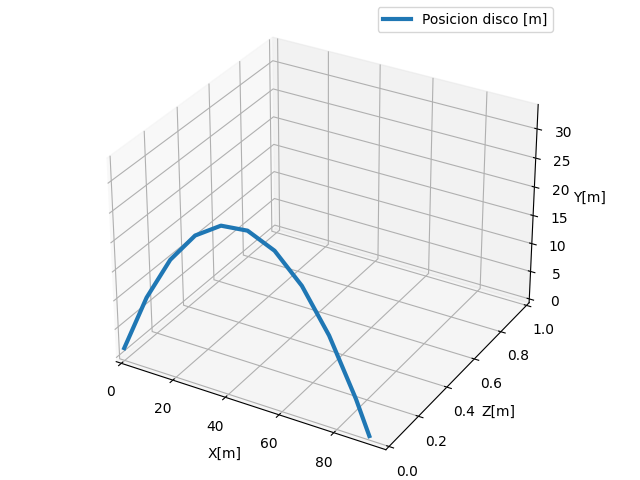
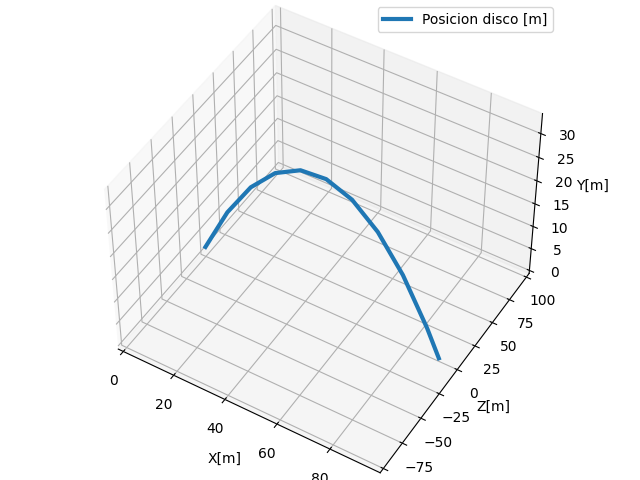
3d motion added, xz angle issue

diff --git a/tp2/graphic.py b/tp2/graphic.py
@@ -12,20 +12,25 @@ xdata, ydata, zdata = [], [], []
 
 
 class Animation:
-    def __init__(self, ang, vel, alt):
+    def __init__(self, ang_xy, ang_xz, vel, alt):
         # First set up the figure, the axis, and the plot element we want to animate
         self.fig = plt.figure()
         ax = Axes3D(self.fig)
         ax.set_xlabel('X[m]')
         ax.set_ylabel('Z[m]')
         ax.set_zlabel('Y[m]')
-        ax.set_xlim3d(config.X_START_GRAPHIC, physics.calculate_maximum_range(ang, vel, alt) + config.DRAWING_MARGIN)
-        ax.set_ylim3d(config.Z_START_GRAPHIC, 1)
-        ax.set_zlim3d(config.Y_START_GRAPHIC, physics.calculate_maximum_height(ang, vel, alt) + config.DRAWING_MARGIN)
+        ax.set_xlim3d(config.X_START_GRAPHIC, physics.calculate_x_displacement(ang_xy, ang_xz, vel,
+                                                                               physics.calculate_flight_time(ang_xy,
+                                                                                                             vel,
+                                                                                                             alt)) + config.DRAWING_MARGIN)
+        ax.set_ylim3d(-100, 100)
+        ax.set_zlim3d(config.Y_START_GRAPHIC,
+                      physics.calculate_maximum_height(ang_xy, vel, alt) + config.DRAWING_MARGIN)
         ax.set_title('Desplazamiento del disco [m]', fontdict={'fontsize': 12}, loc='center')
         self.line, = ax.plot([], [], [], lw=3, label='Posicion disco [m]')
 
-        self.ang = ang
+        self.ang_xy = ang_xy
+        self.ang_xz = ang_xz
         self.alt = alt
         self.vel = vel
 
@@ -33,10 +38,11 @@ class Animation:
         # noinspection PyTypeChecker
         anim = animation.FuncAnimation(self.fig, self.grapher, init_func=self.init,
                                        frames=np.arange(config.X_START_GRAPHIC,
-                                                        physics.calculate_flight_time(self.ang,
+                                                        physics.calculate_flight_time(self.ang_xy,
                                                                                       self.vel,
                                                                                       self.alt) + config.TIME_TICK,
-                                                        config.TIME_TICK), fargs=(self.ang, self.vel, self.alt),
+                                                        config.TIME_TICK),
+                                       fargs=(self.ang_xy, self.ang_xz, self.vel, self.alt),
                                        interval=config.GRAPH_DELAY_MS, repeat=False)
 
         plt.grid(True)
@@ -49,18 +55,21 @@ class Animation:
         self.line.set_data([], [])
         self.line.set_3d_properties([])
 
-    def grapher(self, i, ang, vel, alt):
-        yi = physics.calculate_y_displacement(ang, vel, alt, i)
-        xi = physics.calculate_x_displacement(ang, vel, i)
+    def grapher(self, i, ang_xy, ang_xz, vel, alt):
+        yi = physics.calculate_y_displacement(ang_xy, vel, alt, i)
+        xi = physics.calculate_x_displacement(ang_xy, ang_xz, vel, i)
+        zi = physics.calculate_z_displacement(ang_xy, ang_xz, vel, i)
         if yi < 0:
-            xi = physics.calculate_maximum_range(ang, vel, alt)
+            ti = physics.calculate_flight_time(ang_xy, vel, alt)
+            xi = physics.calculate_x_displacement(ang_xy, ang_xz, vel, ti)
+            zi = physics.calculate_z_displacement(ang_xy, ang_xz, vel, ti)
             yi = 0
         xdata.append(xi)
         ydata.append(yi)
-        zdata.append(0)
+        zdata.append(zi)
         self.line.set_data(xdata, zdata)
         self.line.set_3d_properties(ydata)
 
 
 def get_data():
-    return xdata, ydata
+    return xdata, ydata, zdata

diff --git a/tp2/table.py b/tp2/table.py
@@ -4,21 +4,22 @@ import config
 import graphic
 import physics
 
-header = ['x[m]', 'y[m]', 't[s]']
+header = ['x[m]', 'y[m]', 'z[m]', 't[s]']
 
 
-def generate(ang, vel, alt):
-    x, y = graphic.get_data()
+def generate(ang_xy, ang_xz, vel, alt):
+    x, y, z = graphic.get_data()
     with open("table.csv", "w") as tabla:
         writer = csv.writer(tabla)
         writer.writerow(header)
         for i in range(len(x) - 1):
-            writer.writerow([f"{x[i]:2f}", f"{y[i]:2f}", f"{config.TIME_TICK * i:2f}"])
+            writer.writerow([f"{x[i]:2f}", f"{y[i]:2f}", f"{z[i]:2f}", f"{config.TIME_TICK * i:2f}"])
         writer.writerow(
-            [f"{x[len(x) - 1]:2f}", f"{y[len(y) - 1]:2f}", f"{physics.calculate_flight_time(ang, vel, alt):2f}"])
+            [f"{x[len(x) - 1]:2f}", f"{y[len(y) - 1]:2f}", f"{z[len(z) - 1]:2f}",
+             f"{physics.calculate_flight_time(ang_xy, vel, alt):2f}"])
         tabla.close()
 
-    print(f"Altura Maxima: {physics.calculate_maximum_height(ang, vel, alt):2f}m")
-    print(f"Rango maximo: {physics.calculate_maximum_range(ang, vel, alt):2f}m")
-    print(f"Tiempo de vuelo: {physics.calculate_flight_time(ang, vel, alt):2f}s")
-
+    print(f"Altura Maxima: {physics.calculate_maximum_height(ang_xy, vel, alt):2f}m")
+    ti = physics.calculate_flight_time(ang_xy, vel, alt)
+    print(f"Tiempo de vuelo: {ti:2f}s")
+    print(f"Rango maximo: {physics.calculate_x_displacement(ang_xy, ang_xz, vel, ti):2f}m")

diff --git a/tp2/physics.py b/tp2/physics.py
@@ -15,21 +15,20 @@ DEGREES_to_RADIANS = (math.pi / 180)
 # hmax = h + V² * sin(α)² / (2 * g)                                 (maximum height)
 
 
-def calculate_x_displacement(ang, vel, time):
-    return vel * math.cos(ang * DEGREES_to_RADIANS) * time
+def calculate_x_displacement(ang_xy, ang_xz, vel, time):
+    return vel * math.cos(ang_xy * DEGREES_to_RADIANS) * time * math.cos(ang_xz * DEGREES_to_RADIANS)
 
 
 def calculate_y_displacement(ang, vel, alt, time):
     return vel * math.sin(ang * DEGREES_to_RADIANS) * time + alt - 1 / 2 * math.pow(time, 2) * scipy.g
 
 
+def calculate_z_displacement(ang_xy, ang_xz, vel, time):
+    return vel * math.cos(ang_xy * DEGREES_to_RADIANS) * time * math.sin(ang_xz * DEGREES_to_RADIANS)
+
+
 def calculate_flight_time(ang, vel, alt):
     return (vel * math.sin(ang * DEGREES_to_RADIANS) + math.sqrt(
-        math.pow(vel * math.sin(ang * DEGREES_to_RADIANS), 2) + 2 * scipy.g * alt)) / scipy.g
-
-
-def calculate_maximum_range(ang, vel, alt):
-    return vel * math.cos(ang * DEGREES_to_RADIANS) * (vel * math.sin(ang * DEGREES_to_RADIANS) + math.sqrt(
         math.pow(vel * math.sin(ang * DEGREES_to_RADIANS), 2) + 2 * scipy.g * alt)) / scipy.g
 
 

diff --git a/tp2/params.py b/tp2/params.py
@@ -2,14 +2,15 @@ import config
 
 
 def get_static_params():
-    return config.STATIC_ANG, config.STATIC_VEL, config.STATIC_ALT
+    return config.STATIC_ANG_XY, config.STATIC_ANG_XZ, config.STATIC_VEL, config.STATIC_ALT
 
 
 def get_variable_params():
-    ang = get_ang_value()
+    ang_xy = get_ang_xy_value()
+    ang_xz = get_ang_xz_value()
     vel = get_vel_value()
     alt = get_alt_value()
-    return ang, vel, alt
+    return ang_xy, ang_xz, vel, alt
 
 
 def get(static_params):
@@ -30,10 +31,19 @@ def get_float_value(msg):
     return float_val
 
 
-def get_ang_value():
+def get_ang_xy_value():
     while True:
         value = get_float_value("Ingrese un angulo de tiro menor a 90 grados: ")
         if 90 > value > 0:
+            break
+        print(f"{value} no es un valor de angulo valido, intente nuevamente")
+    return value
+
+
+def get_ang_xz_value():
+    while True:
+        value = get_float_value("Ingrese un angulo de giro entre 0 y 180 grados: ")
+        if 180 > value > 0:
             break
         print(f"{value} no es un valor de angulo valido, intente nuevamente")
     return value

diff --git a/tp2/main.py b/tp2/main.py
@@ -14,7 +14,7 @@ import table
 
 
 if __name__ == '__main__':
-    ang, vel, alt = params.get(config.STATIC_PARAMS)
-    animation = graphic.Animation(ang, vel, alt)
+    ang_xy, ang_xz, vel, alt = params.get(config.STATIC_PARAMS)
+    animation = graphic.Animation(ang_xy, ang_xz, vel, alt)
     animation.draw()
-    table.generate(ang, vel, alt)
+    table.generate(ang_xy, ang_xz, vel, alt)

diff --git a/tp2/config.py b/tp2/config.py
@@ -4,7 +4,8 @@
 STATIC_PARAMS = True
 
 # Static params values
-STATIC_ANG = 50
+STATIC_ANG_XY = 50
+STATIC_ANG_XZ = 0
 STATIC_VEL = 30
 STATIC_ALT = 1.5
 
